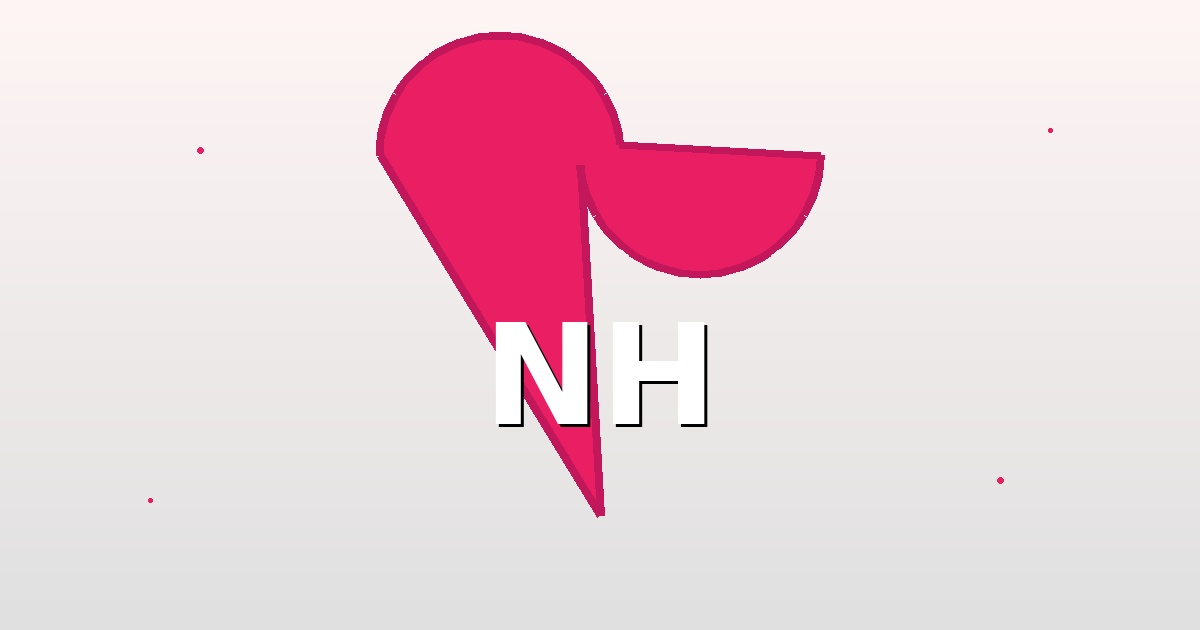
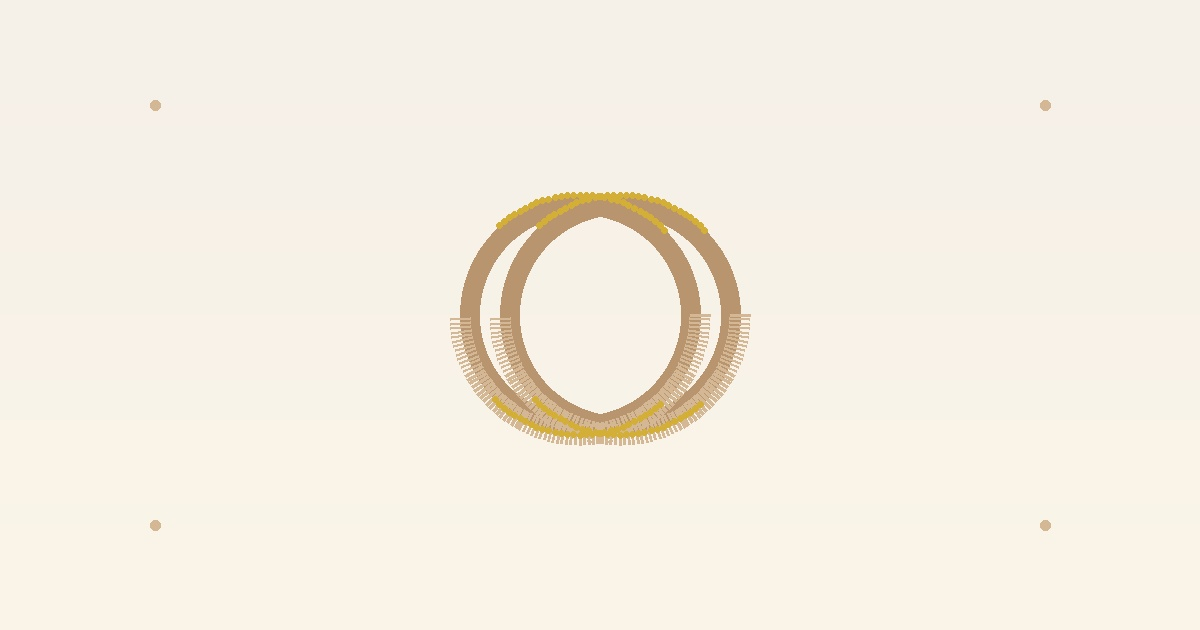
fix 5

diff --git a/generate_nh_image.py b/generate_nh_image.py
@@ -1,117 +1,110 @@
 #!/usr/bin/env python3
 """
-Generate a simple share image with 'NH' inside a heart for WhatsApp sharing.
+Generate a simple share image with wedding symbol for WhatsApp sharing.
+Uses cashew/wedding colors - no text, just symbol.
 """
 
 from PIL import Image, ImageDraw, ImageFont
 import math
 
+def hex_to_rgb(hex_color):
+    """Convert hex color to RGB tuple"""
+    hex_color = hex_color.lstrip('#')
+    return tuple(int(hex_color[i:i+2], 16) for i in (0, 2, 4))
+
+# Wedding/cashew color scheme
+CASHEW_LIGHT = '#f5f0e8'  # Light beige background
+CASHEW_MEDIUM = '#fbf5e8'  # Medium beige
+CASHEW_PRIMARY = '#d4b896'  # Primary cashew color
+CASHEW_DARK = '#b8956f'  # Darker cashew
+GOLD = '#D4AF37'  # Gold accent
+
 # Create image (1200x630 for WhatsApp)
 width, height = 1200, 630
-img = Image.new('RGB', (width, height), color='#fff5f5')
+img = Image.new('RGB', (width, height), color=CASHEW_LIGHT)
 
-# Create gradient background
+# Create gradient background (warm beige gradient)
 draw = ImageDraw.Draw(img)
 for y in range(height):
     ratio = y / height
-    r = int(255 - (255 - 224) * ratio)
-    g = int(245 - (245 - 224) * ratio)
-    b = int(245 - (245 - 224) * ratio)
+    # Interpolate between light and medium cashew
+    r1, g1, b1 = 245, 240, 232  # #f5f0e8
+    r2, g2, b2 = 251, 245, 232  # #fbf5e8
+    r = int(r1 + (r2 - r1) * ratio)
+    g = int(g1 + (g2 - g1) * ratio)
+    b = int(b1 + (b2 - b1) * ratio)
     draw.line([(0, y), (width, y)], fill=(r, g, b))
 
-# Draw heart shape using a better algorithm
-def draw_heart(draw, center_x, center_y, size, fill_color, outline_color):
-    """Draw a heart shape using a simple, recognizable heart path"""
-    # Create heart shape using two circles and a triangle
-    # This creates a more recognizable heart shape
-    scale = size / 200.0
-    
-    # Left circle (top left of heart)
-    left_circle_center_x = center_x - 50 * scale
-    left_circle_center_y = center_y - 80 * scale
-    left_radius = 60 * scale
-    
-    # Right circle (top right of heart)
-    right_circle_center_x = center_x + 50 * scale
-    right_circle_center_y = center_y - 80 * scale
-    right_radius = 60 * scale
-    
-    # Bottom point of heart
-    bottom_x = center_x
-    bottom_y = center_y + 100 * scale
-    
-    # Draw using a polygon approximation
-    points = []
-    # Left arc
-    for angle in range(180, 360, 5):
+# Draw wedding rings symbol (two interlocking rings)
+center_x, center_y = width // 2, height // 2
+ring_radius = 120
+ring_thickness = 20
+ring_spacing = 40  # Distance between ring centers
+
+# Convert colors to RGB
+ring_color = hex_to_rgb(CASHEW_PRIMARY)
+ring_outline = hex_to_rgb(CASHEW_DARK)
+gold_rgb = hex_to_rgb(GOLD)
+
+# Left ring
+left_ring_center_x = center_x - ring_spacing // 2
+draw.ellipse([left_ring_center_x - ring_radius, center_y - ring_radius,
+               left_ring_center_x + ring_radius, center_y + ring_radius],
+              fill=None, outline=ring_outline, width=ring_thickness)
+
+# Right ring (interlocking with left)
+right_ring_center_x = center_x + ring_spacing // 2
+draw.ellipse([right_ring_center_x - ring_radius, center_y - ring_radius,
+               right_ring_center_x + ring_radius, center_y + ring_radius],
+              fill=None, outline=ring_outline, width=ring_thickness)
+
+# Fill the visible parts of rings with cashew color
+# Left ring (top and bottom parts visible)
+for angle in range(0, 180, 2):
+    rad = math.radians(angle)
+    x1 = left_ring_center_x + (ring_radius - ring_thickness//2) * math.cos(rad)
+    y1 = center_y + (ring_radius - ring_thickness//2) * math.sin(rad)
+    x2 = left_ring_center_x + (ring_radius + ring_thickness//2) * math.cos(rad)
+    y2 = center_y + (ring_radius + ring_thickness//2) * math.sin(rad)
+    draw.line([(x1, y1), (x2, y2)], fill=ring_color, width=3)
+
+# Right ring (top and bottom parts visible)
+for angle in range(0, 180, 2):
+    rad = math.radians(angle)
+    x1 = right_ring_center_x + (ring_radius - ring_thickness//2) * math.cos(rad)
+    y1 = center_y + (ring_radius - ring_thickness//2) * math.sin(rad)
+    x2 = right_ring_center_x + (ring_radius + ring_thickness//2) * math.cos(rad)
+    y2 = center_y + (ring_radius + ring_thickness//2) * math.sin(rad)
+    draw.line([(x1, y1), (x2, y2)], fill=ring_color, width=3)
+
+# Add gold accents on the rings
+for i, ring_x in enumerate([left_ring_center_x, right_ring_center_x]):
+    # Top accent
+    for angle in range(45, 135, 3):
         rad = math.radians(angle)
-        x = left_circle_center_x + left_radius * math.cos(rad)
-        y = left_circle_center_y + left_radius * math.sin(rad)
-        points.append((int(x), int(y)))
+        x = ring_x + ring_radius * math.cos(rad)
+        y = center_y - ring_radius * math.sin(rad)
+        draw.ellipse([x-3, y-3, x+3, y+3], fill=gold_rgb)
     
-    # Right arc
-    for angle in range(0, 180, 5):
+    # Bottom accent
+    for angle in range(225, 315, 3):
         rad = math.radians(angle)
-        x = right_circle_center_x + right_radius * math.cos(rad)
-        y = right_circle_center_y + right_radius * math.sin(rad)
-        points.append((int(x), int(y)))
-    
-    # Add bottom point
-    points.append((int(bottom_x), int(bottom_y)))
-    
-    # Draw filled heart
-    draw.polygon(points, fill=fill_color)
-    
-    # Draw outline
-    points.append(points[0])  # Close the path
-    draw.line(points, fill=outline_color, width=8)
+        x = ring_x + ring_radius * math.cos(rad)
+        y = center_y - ring_radius * math.sin(rad)
+        draw.ellipse([x-3, y-3, x+3, y+3], fill=gold_rgb)
 
-# Draw heart at center
-heart_size = 400
-heart_x, heart_y = width // 2, height // 2
-draw_heart(draw, heart_x, heart_y, heart_size, '#e91e63', '#c2185b')
-
-# Draw "NH" text inside heart
-try:
-    # Try to use a bold system font
-    font_size = 140
-    try:
-        font = ImageFont.truetype("/usr/share/fonts/truetype/dejavu/DejaVuSans-Bold.ttf", font_size)
-    except:
-        try:
-            font = ImageFont.truetype("/usr/share/fonts/truetype/liberation/LiberationSans-Bold.ttf", font_size)
-        except:
-            # Fallback to default font
-            font = ImageFont.load_default()
-except:
-    font = ImageFont.load_default()
-
-# Get text dimensions for centering
-text = "NH"
-bbox = draw.textbbox((0, 0), text, font=font)
-text_width = bbox[2] - bbox[0]
-text_height = bbox[3] - bbox[1]
-
-# Draw text with shadow effect
-text_x = heart_x - text_width // 2
-text_y = heart_y - text_height // 2 + 30
-
-# Shadow
-draw.text((text_x + 3, text_y + 3), text, fill='rgba(0,0,0,100)', font=font)
-# Main text
-draw.text((text_x, text_y), text, fill='#ffffff', font=font)
-
-# Add subtle decorative dots
-dot_color = (233, 30, 99)  # #e91e63
-draw.ellipse([197, 147, 203, 153], fill=dot_color + (76,))  # 30% opacity
-draw.ellipse([997, 477, 1003, 483], fill=dot_color + (76,))
-draw.ellipse([148, 498, 152, 502], fill=dot_color + (51,))  # 20% opacity
-draw.ellipse([1048, 128, 1052, 132], fill=dot_color + (51,))
+# Add subtle decorative elements (cashew-colored dots)
+dot_rgb = hex_to_rgb(CASHEW_PRIMARY)
+# Corner dots for elegance
+draw.ellipse([150, 100, 160, 110], fill=dot_rgb)  # Top left
+draw.ellipse([1040, 100, 1050, 110], fill=dot_rgb)  # Top right
+draw.ellipse([150, 520, 160, 530], fill=dot_rgb)  # Bottom left
+draw.ellipse([1040, 520, 1050, 530], fill=dot_rgb)  # Bottom right
 
 # Save image
 output_path = 'assets/share.jpg'
 img.save(output_path, 'JPEG', quality=95, optimize=True)
 print(f"✓ Generated {output_path} successfully!")
 print(f"  Size: {width}x{height}px")
+print(f"  Design: Wedding rings symbol with cashew colors")
 print(f"  Ready for WhatsApp sharing!")
-
